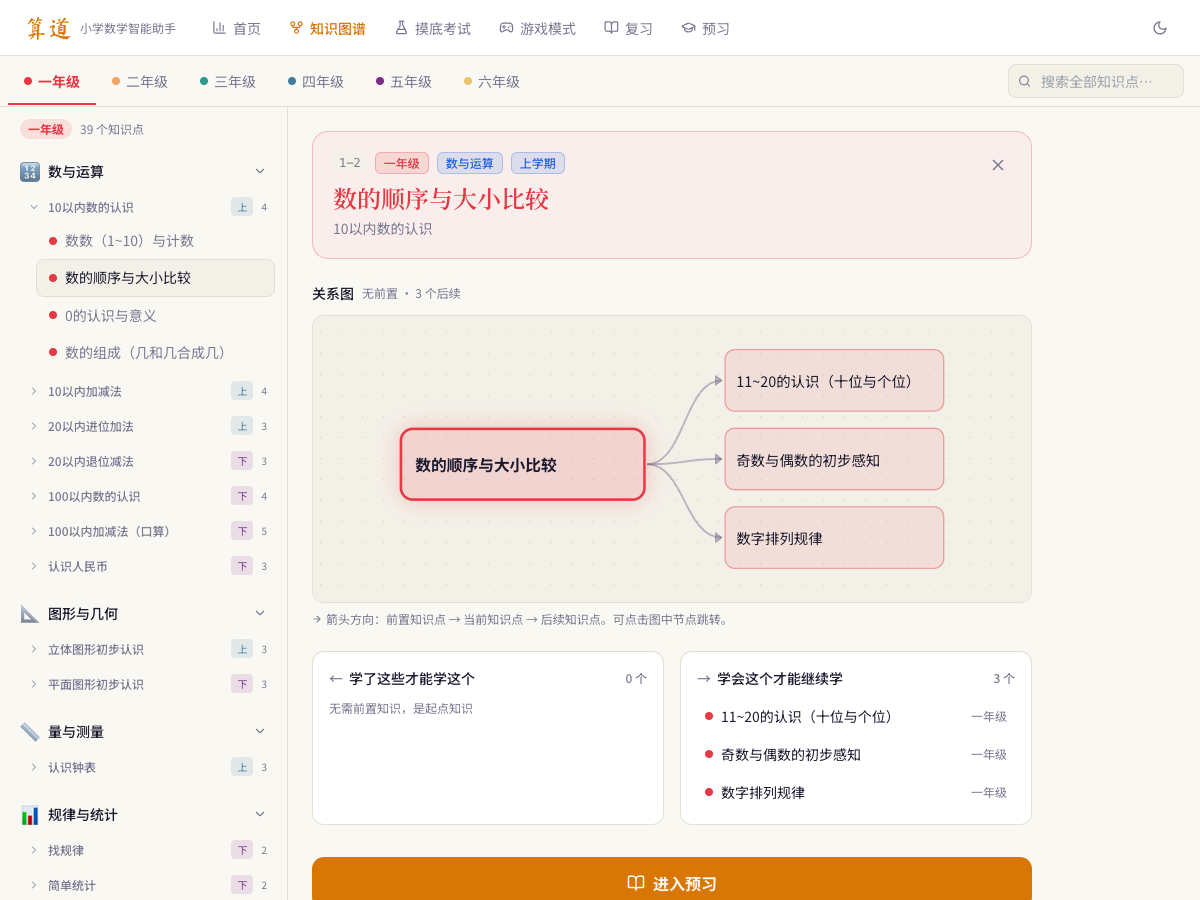
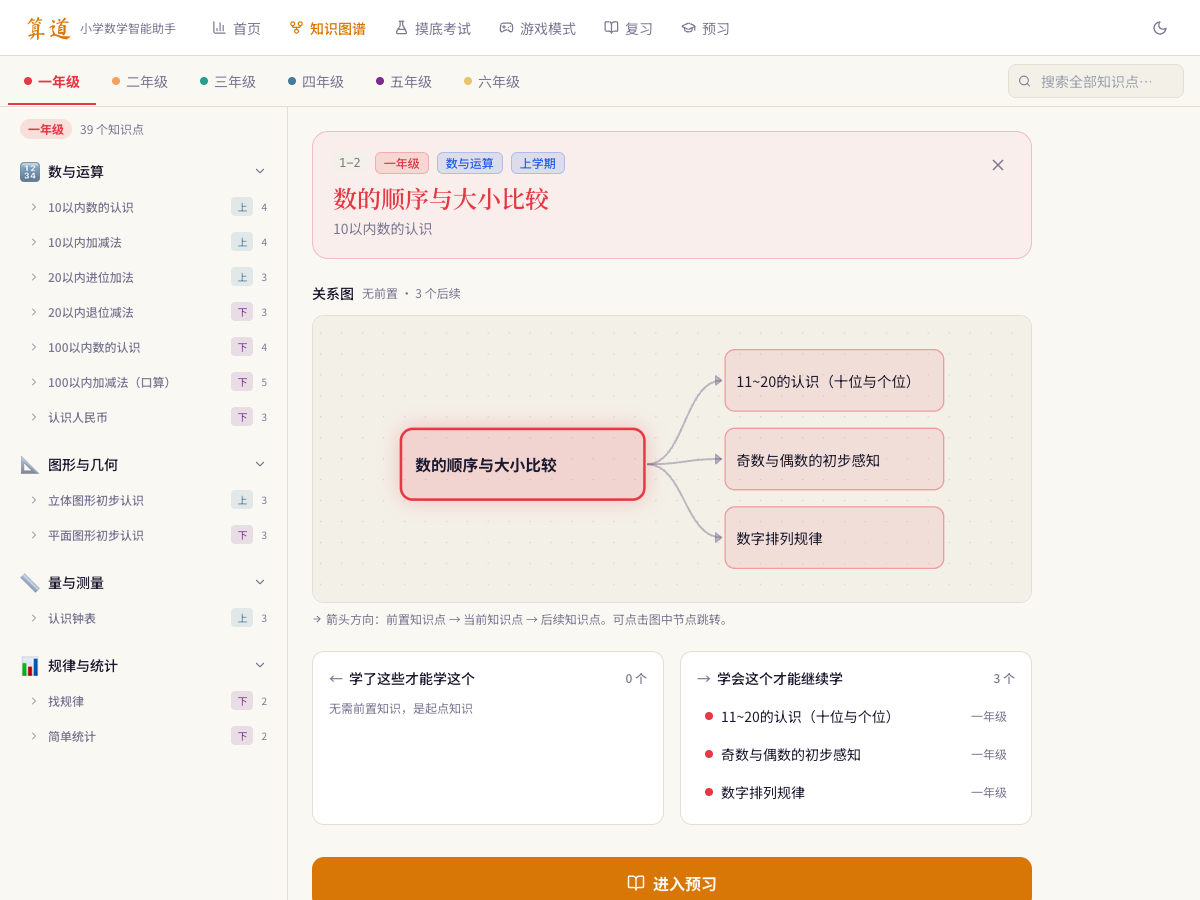
docs: 刷新最终部署截图与证据

diff --git a/docs/质量报告.md b/docs/质量报告.md
@@ -39,7 +39,7 @@
 
 ## 三、生产环境验收
 
-Cloudflare 当前生产版本：`f336291b-4e39-462e-94dd-046f48e8abb5`，Worker 启动时间为 4 ms。
+本次审计对应的 Cloudflare 生产版本为 `2189d3fa-9c89-455a-b9ee-c707ef85be43`，由公开仓库提交 `fc152d0` 构建，Worker 启动时间为 4 ms。
 
 | 检查项                 | 实际结果                                                   |
 | ---------------------- | ---------------------------------------------------------- |
